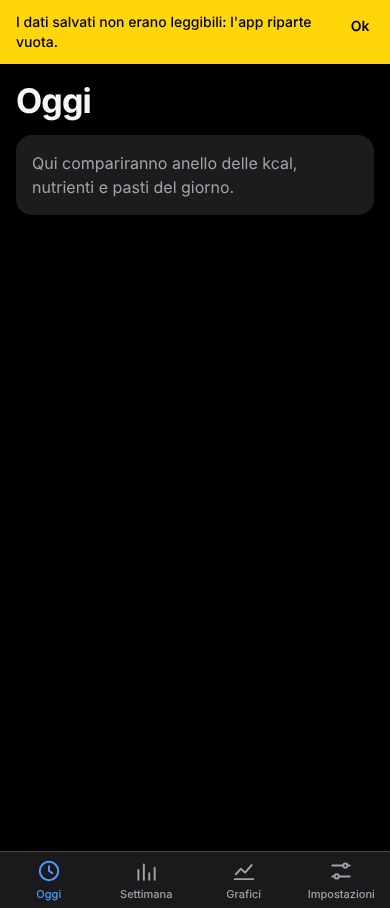
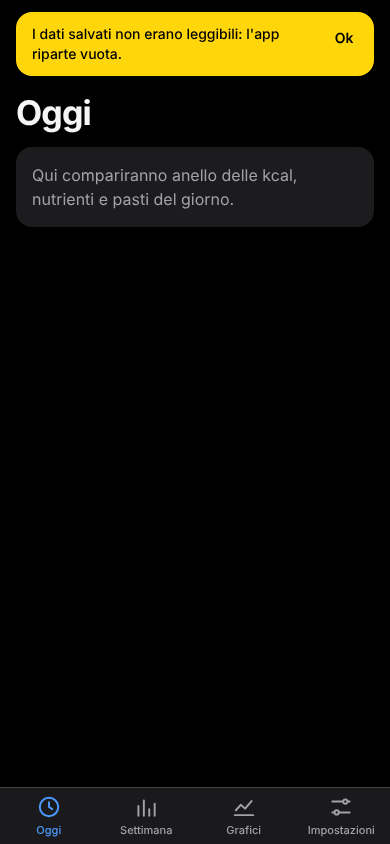
T2.1 correzioni dopo prima revisione (in attesa di nuova revisione)
Claude-Session: https://claude.ai/code/session_015vJA156enAwwDaa2Dedvun

Changed region(s): [[0.0, 0.0, 1.0, 0.2773], [0.0, 0.9242, 1.0, 1.0]]

diff --git a/src/app/data-provider.tsx b/src/app/data-provider.tsx
@@ -5,11 +5,23 @@ import type { ReactNode } from "react";
 import { createBrowserDataStore } from "@/data";
 import type { DataStore } from "@/data";
 
-const DataContext = createContext<DataStore | null>(null);
+interface DataValue {
+  store: DataStore | null;
+  notice: string | null;
+  dismissNotice: () => void;
+}
+
+const DataContext = createContext<DataValue>({ store: null, notice: null, dismissNotice: () => {} });
 
 /** Lo sportello dei dati, creato nel browser dopo il caricamento (null finché non è pronto). */
 export function useDataStore(): DataStore | null {
-  return useContext(DataContext);
+  return useContext(DataContext).store;
+}
+
+/** Messaggio sullo stato dei dati salvati (illeggibili, non salvabili) e modo per chiuderlo. */
+export function useDataNotice() {
+  const { notice, dismissNotice } = useContext(DataContext);
+  return { notice, dismissNotice };
 }
 
 let clientStore: DataStore | null = null;
@@ -28,24 +40,10 @@ export function DataProvider({ children }: { children: ReactNode }) {
     store?.getNotice().then(setNotice);
   }, [store]);
 
-  return (
-    <DataContext.Provider value={store}>
-      {notice && (
-        <div role="alert" className="mx-auto flex max-w-xl items-start justify-between gap-3 bg-warn-fill px-4 py-3 text-sm font-medium text-black">
-          <span>{notice}</span>
-          <button
-            type="button"
-            className="-my-2 -mr-2 min-h-11 min-w-11 rounded-full px-3 font-semibold"
-            onClick={() => {
-              store?.clearNotice();
-              setNotice(null);
-            }}
-          >
-            Ok
-          </button>
-        </div>
-      )}
-      {children}
-    </DataContext.Provider>
-  );
+  const dismissNotice = () => {
+    store?.clearNotice();
+    setNotice(null);
+  };
+
+  return <DataContext.Provider value={{ store, notice, dismissNotice }}>{children}</DataContext.Provider>;
 }

diff --git a/src/app/layout.tsx b/src/app/layout.tsx
@@ -1,6 +1,7 @@
 import type { Metadata, Viewport } from "next";
 import "./globals.css";
 import { BottomNav } from "./components/nav";
+import { NoticeBanner } from "./components/notice-banner";
 import { DataProvider } from "./data-provider";
 
 export const metadata: Metadata = {
@@ -25,7 +26,8 @@ export default function RootLayout({ children }: { children: React.ReactNode }) 
     <html lang="it">
       <body>
         <DataProvider>
-          <div className="mx-auto min-h-dvh w-full max-w-xl px-4 pb-[calc(5rem+env(safe-area-inset-bottom))] pt-[env(safe-area-inset-top)]">
+          <div className="mx-auto flex min-h-dvh w-full flex-col max-w-xl px-4 pb-[calc(5rem+env(safe-area-inset-bottom))] pt-[env(safe-area-inset-top)]">
+            <NoticeBanner />
             {children}
           </div>
           <BottomNav />

diff --git a/src/app/components/notice-banner.tsx b/src/app/components/notice-banner.tsx
@@ -1,0 +1,17 @@
+"use client";
+
+import { useDataNotice } from "../data-provider";
+
+/** Avviso in cima alla pagina quando i dati salvati erano illeggibili o non si riesce a salvare. */
+export function NoticeBanner() {
+  const { notice, dismissNotice } = useDataNotice();
+  if (!notice) return null;
+  return (
+    <div role="alert" className="mt-3 flex items-start justify-between gap-3 rounded-2xl bg-warn-fill px-4 py-3 text-sm font-medium text-black">
+      <span>{notice}</span>
+      <button type="button" className="-my-2 -mr-2 min-h-11 min-w-11 rounded-full px-3 font-semibold" onClick={dismissNotice}>
+        Ok
+      </button>
+    </div>
+  );
+}

diff --git a/docs/DIARIO.md b/docs/DIARIO.md
@@ -28,8 +28,13 @@ Una riga per task chiuso.
 - Piano della sfida come piano di sistema (`user_id` null, uguale per tutti) scelto da `settings.challenge_plan_id`; la data di inizio è in `settings.challenge_start_date`.
 - Il vincolo "un solo pasto libero a settimana" non è nel database (si controlla nell'app con `hasFreeMealInWeek`).
 - Token degli ingressi: nel database solo l'impronta (hash).
+- Pagina di prova `/prova/pannello` per mostrare il pannello dal basso; da togliere in T2.3 quando il pannello Aggiungi lo usa davvero.
+- Pagine Oggi, Settimana e Impostazioni sono segnaposto fino ai task che le riempiono; Grafici resta "In arrivo".
 
 ## Non verificato
 
 - T1.0: la regola di lint `no-restricted-imports` non copre `require()` né `import()` dinamico.
 - T1.9: le migrazioni sono state eseguite solo su un PostgreSQL 16 locale con uno stand-in di `auth.users`/`auth.uid()` e del ruolo `authenticated`; non su Supabase reale. Verificato lì: creazione di tutte le tabelle, dato iniziale (1 piano, 12 esercizi), isolamento tra due utenti (lettura, modifica, inserimento altrui rifiutati), piano di sistema non modificabile, unicità attività per utente e data. Non verificato: comportamento con il vero `auth.uid()` di Supabase, grant dei ruoli Supabase, `gen_random_uuid()` su Supabase.
+- T2.1: installazione sulla Home dell'iPhone, schermo intero e aree sicure reali (notch, barra home) non si possono provare nell'ambiente: il codice usa `viewport-fit=cover` e `env(safe-area-inset-*)`, ma gli screenshot li hanno a zero.
+- T2.1: pannello dal basso provato in un browser headless con il mouse (Esc, Chiudi, tocco fuori, trascinamento corto e lungo: tutto come atteso), non con il tocco di un iPhone. Nessun test automatico oltre a `shouldCloseOnDrag`.
+- T2.1: `npm run screens` a 390 px, chiaro e scuro: 10 screenshot, nessuna segnalazione (niente scorrimento orizzontale, aree toccabili ≥ 44 px, pagine entro 844 px).
